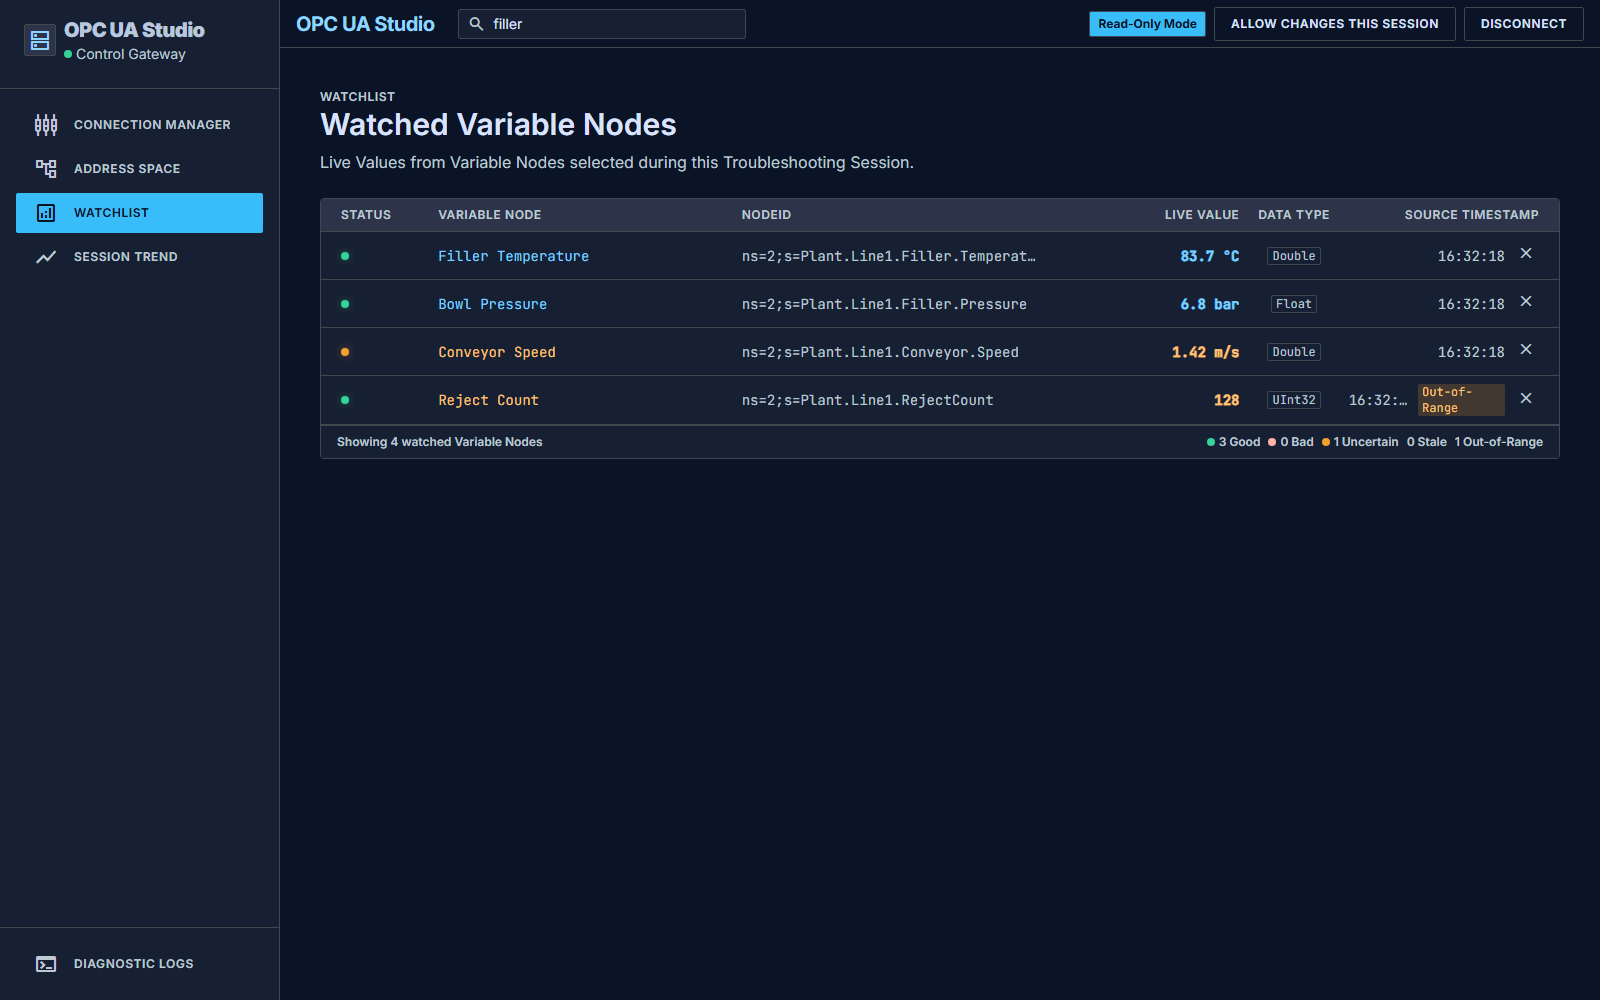
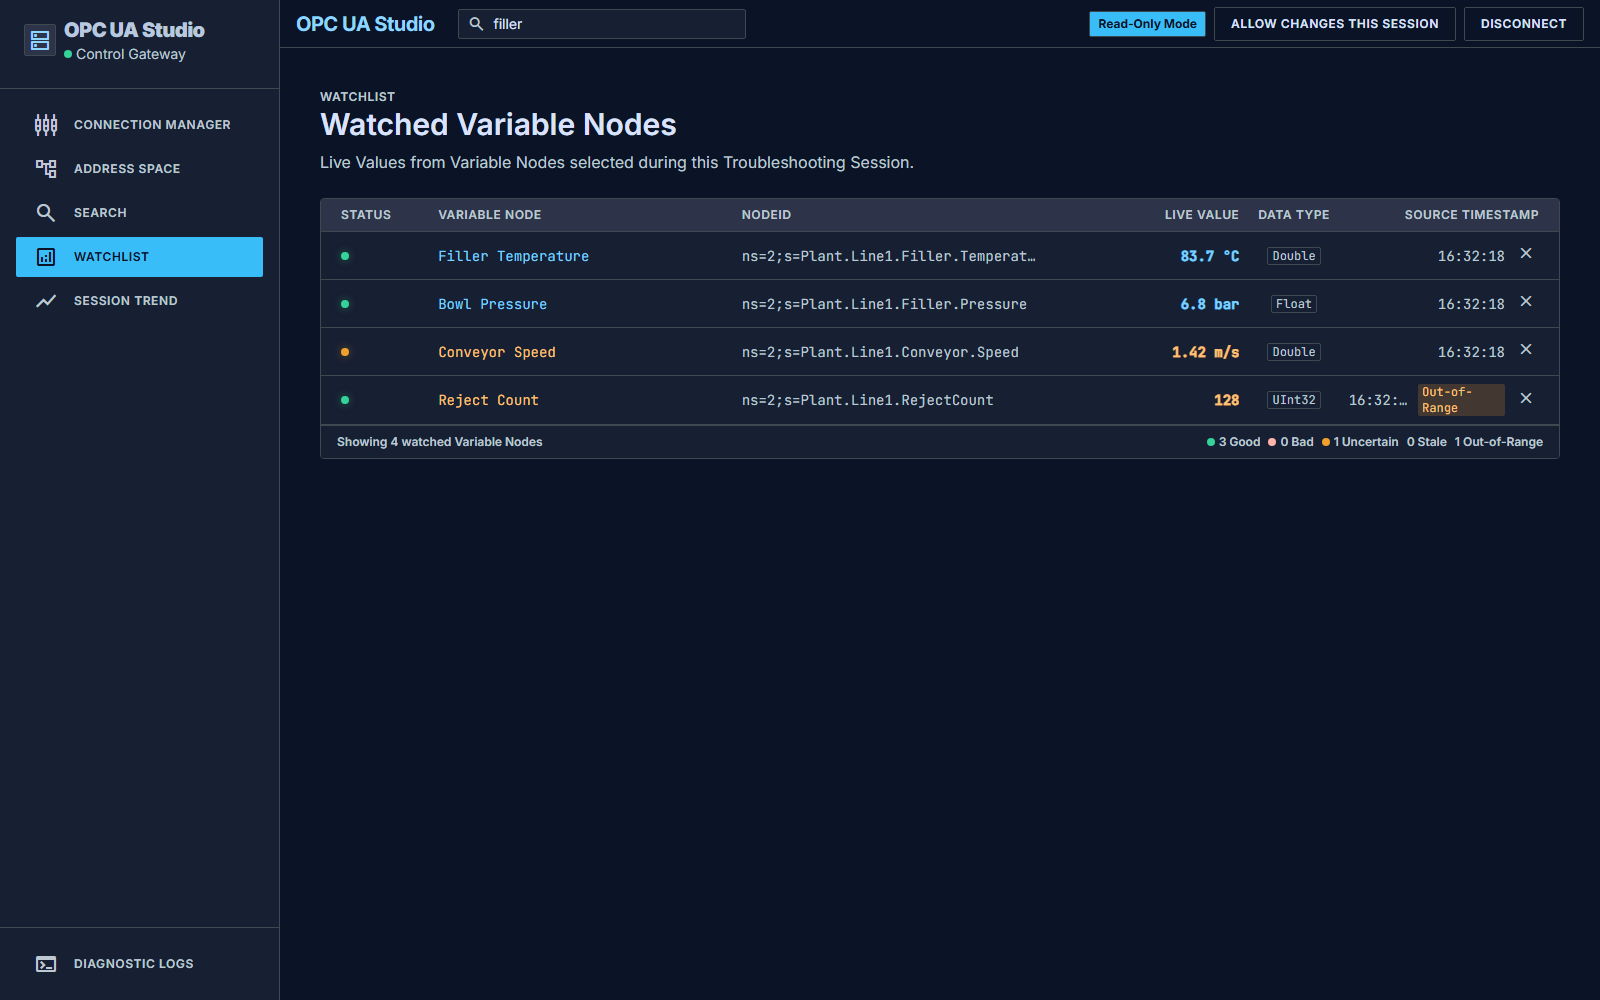
feat(frontend): move search into dedicated screen

Changed region(s): [[0.0, 0.186, 0.1875, 0.31]]

diff --git a/frontend/src/App.svelte b/frontend/src/App.svelte
@@ -1,12 +1,12 @@
 <script lang="ts">
-  import { onMount } from 'svelte'
+  import { onMount, tick } from 'svelte'
   import { BrowseChildren, ClearVariableNodeInspection, Connect, DeleteSavedConnection, Disconnect, DiscoverEndpoints, GetDiagnosticLogs, GetSavedConnections, GetSessionSafety, GetSessionTrend, GetWatchlist, InspectVariableNode, PickClientCertificate, PickClientPrivateKey, RefreshVariableNodeValue, SaveSavedConnection, SearchAddressSpace, SetReadOnlyMode, UnwatchVariableNode, WatchVariableNode, WriteVariableNodeValue } from '../wailsjs/go/main/App.js'
   import { EventsOn } from '../wailsjs/runtime/runtime.js'
   import MethodCallPanel from './MethodCallPanel.svelte'
   import { isSupportedScalarDataType, parseScalarInputError } from './scalarInput'
   import { getReadmeScreenshotState } from './readmeScreenshots'
 
-  type Tab = 'connections' | 'address-space' | 'watchlist' | 'session-trend' | 'logs'
+  type Tab = 'connections' | 'address-space' | 'search' | 'watchlist' | 'session-trend' | 'logs'
   type AuthType = 'Anonymous' | 'UserName'
 
   type Endpoint = {
@@ -193,6 +193,7 @@
   let searchView: AddressSpaceSearchView = (readmeScreenshotState?.searchView as AddressSpaceSearchView) ?? { query: '', results: [], status: 'Connect to an OPC UA Server to search browsed Address Space metadata.' }
   let searching = false
   let searchDebounce: ReturnType<typeof setTimeout> | null = null
+  let searchInput: HTMLInputElement | null = null
   let refreshingNodeID = ''
   let writeTargetValue = ''
   let writeSubmitting = false
@@ -520,7 +521,15 @@
     searchDebounce = null
   }
 
+  async function openSearchFromSidebar() {
+    activeTab = 'search'
+    if (!connected) return
+    await tick()
+    searchInput?.focus()
+  }
+
   function queueAddressSpaceSearch() {
+    activeTab = 'search'
     if (searchDebounce) clearTimeout(searchDebounce)
     searchDebounce = setTimeout(() => {
       void runAddressSpaceSearch()
@@ -862,6 +871,9 @@
       <button class={navButtonClass(activeTab === 'address-space')} on:click={() => (activeTab = 'address-space')}>
         <span class="material-symbols-outlined">account_tree</span><span class="label text-current">Address Space</span>
       </button>
+      <button aria-label="Search" class={navButtonClass(activeTab === 'search')} on:click={openSearchFromSidebar}>
+        <span class="material-symbols-outlined">search</span><span class="label text-current">Search</span>
+      </button>
       <button class={navButtonClass(activeTab === 'watchlist')} on:click={() => (activeTab = 'watchlist')}>
         <span class="material-symbols-outlined">analytics</span><span class="label text-current">Watchlist</span>
       </button>
@@ -883,7 +895,7 @@
         <span class="text-xl font-bold tracking-tight text-primary">OPC UA Studio</span>
         <div class="hidden w-72 items-center rounded border border-outline-variant bg-surface-container px-sm py-xs md:flex">
           <span class="material-symbols-outlined mr-sm text-[18px] text-on-surface-variant">search</span>
-          <input class="w-full bg-transparent text-sm outline-none placeholder:text-on-surface-variant" placeholder="Search Address Space..." bind:value={searchQuery} on:input={queueAddressSpaceSearch} on:focus={() => (activeTab = 'address-space')} />
+          <input aria-label="Search Address Space from header" class="w-full bg-transparent text-sm outline-none placeholder:text-on-surface-variant" placeholder="Search Address Space..." bind:value={searchQuery} disabled={!connected} on:input={queueAddressSpaceSearch} on:focus={() => (activeTab = 'search')} />
         </div>
       </div>
       <div class="flex items-center gap-sm">
@@ -1036,8 +1048,11 @@
             </div>
           {/if}
         </section>
-      {:else if activeTab === 'address-space'}
-        <section class="grid h-full min-h-[600px] gap-lg xl:grid-cols-[minmax(240px,0.8fr)_minmax(280px,0.95fr)_minmax(360px,1.25fr)]">
+      {:else if activeTab === 'address-space' || activeTab === 'search'}
+        <section class={activeTab === 'address-space'
+          ? 'grid h-full min-h-[600px] gap-lg xl:grid-cols-[360px_minmax(0,1fr)]'
+          : 'grid h-full min-h-[600px] gap-lg xl:grid-cols-[minmax(420px,0.9fr)_minmax(480px,1.1fr)]'}>
+          {#if activeTab === 'address-space'}
           <div class="panel flex min-h-0 flex-col overflow-hidden">
             <div class="flex items-center justify-between border-b border-outline-variant p-md">
               <div><p class="label">Address Space</p><h2 class="text-xl font-semibold">Objects</h2></div>
@@ -1066,6 +1081,7 @@
             </div>
           </div>
 
+          {:else}
           <div class="panel flex min-h-0 flex-col overflow-hidden">
             <div class="border-b border-outline-variant p-md">
               <p class="label">Search</p>
@@ -1073,18 +1089,21 @@
               <p class="mt-xs text-sm text-on-surface-variant">Search browsed metadata: DisplayName, BrowseName, NodeID, and NodeClass.</p>
               <div class="relative mt-md">
                 <span class="material-symbols-outlined absolute left-md top-1/2 -translate-y-1/2 text-on-surface-variant">search</span>
-                <input class="field w-full py-md pl-[48px] text-base" placeholder="Search Address Space…" bind:value={searchQuery} on:input={queueAddressSpaceSearch} />
+                <input bind:this={searchInput} aria-label="Search Address Space" class="field w-full py-md pl-[48px] text-base" placeholder="Search Address Space…" bind:value={searchQuery} disabled={!connected} on:input={queueAddressSpaceSearch} />
               </div>
             </div>
             <div class="min-h-0 flex-1 overflow-auto p-md">
-              {#if searching}
-                <div class="mb-md text-sm text-primary">Searching…</div>
-              {/if}
+              <div role="status" aria-live="polite">
+                {#if searching}
+                  <div class="mb-md text-sm text-primary">Searching…</div>
+                {/if}
+                <p class="mb-md text-sm text-on-surface-variant">{searchView.status}</p>
+              </div>
               {#if searchView.results.length === 0}
                 <div class="flex min-h-[260px] items-center justify-center rounded border border-dashed border-outline-variant bg-surface-container-low p-lg text-center text-on-surface-variant">
                   <div>
                     <span class="material-symbols-outlined text-3xl text-primary">manage_search</span>
-                    <p class="mt-sm">{searchView.status}</p>
+                    <p class="mt-sm">No Search Results</p>
                     {#if connected}<p class="mt-xs text-xs">Browse the tree to add more Address Space metadata to Search.</p>{/if}
                   </div>
                 </div>
@@ -1121,6 +1140,7 @@
               {/if}
             </div>
           </div>
+          {/if}
 
           <div class="panel flex min-h-0 flex-col overflow-hidden">
             <div class="flex items-center justify-between gap-md border-b border-outline-variant p-md">
@@ -1193,15 +1213,15 @@
                 {#if inspection.outOfRange}<div class="mt-md rounded border border-tertiary-container bg-tertiary-container/10 p-md text-tertiary">Out-of-Range: {inspection.outOfRange}</div>{/if}
                 {#if inspection.error}<div class="mt-md rounded border border-error-container bg-error-container/20 p-md text-error">{inspection.error}</div>{/if}
                 <div class="mt-lg grid gap-md lg:grid-cols-2">
-                  <div class="space-y-sm">
+                  <div class="min-w-0 space-y-sm">
                     <p class="label">Metadata</p>
                     <dl class="space-y-xs text-sm">
-                      <div class="flex justify-between gap-md"><dt class="text-on-surface-variant">NodeId</dt><dd class="font-mono">{inspection.node.NodeID}</dd></div>
-                      <div class="flex justify-between gap-md"><dt class="text-on-surface-variant">BrowseName</dt><dd class="font-mono">{inspection.node.BrowseName}</dd></div>
-                      <div class="flex justify-between gap-md"><dt class="text-on-surface-variant">Data Type</dt><dd>{inspection.details?.DataType || '—'}</dd></div>
-                      <div class="flex justify-between gap-md"><dt class="text-on-surface-variant">AccessLevel</dt><dd>{inspection.details?.AccessLevel || '—'}</dd></div>
-                      <div class="flex justify-between gap-md"><dt class="text-on-surface-variant">UserAccessLevel</dt><dd>{inspection.details?.UserAccessLevelAvailable ? inspection.details.UserAccessLevel : '—'}</dd></div>
-                      <div class="flex justify-between gap-md"><dt class="text-on-surface-variant">Engineering Unit</dt><dd>{inspection.details?.EngineeringUnit || '—'}</dd></div>
+                      <div class="flex items-start justify-between gap-md"><dt class="shrink-0 text-on-surface-variant">NodeId</dt><dd class="min-w-0 break-all text-right font-mono">{inspection.node.NodeID}</dd></div>
+                      <div class="flex items-start justify-between gap-md"><dt class="shrink-0 text-on-surface-variant">BrowseName</dt><dd class="min-w-0 break-all text-right font-mono">{inspection.node.BrowseName}</dd></div>
+                      <div class="flex items-start justify-between gap-md"><dt class="shrink-0 text-on-surface-variant">Data Type</dt><dd class="min-w-0 break-words text-right">{inspection.details?.DataType || '—'}</dd></div>
+                      <div class="flex items-start justify-between gap-md"><dt class="shrink-0 text-on-surface-variant">AccessLevel</dt><dd class="min-w-0 break-words text-right">{inspection.details?.AccessLevel || '—'}</dd></div>
+                      <div class="flex items-start justify-between gap-md"><dt class="shrink-0 text-on-surface-variant">UserAccessLevel</dt><dd class="min-w-0 break-words text-right">{inspection.details?.UserAccessLevelAvailable ? inspection.details.UserAccessLevel : '—'}</dd></div>
+                      <div class="flex items-start justify-between gap-md"><dt class="shrink-0 text-on-surface-variant">Engineering Unit</dt><dd class="min-w-0 break-words text-right">{inspection.details?.EngineeringUnit || '—'}</dd></div>
                     </dl>
                   </div>
                   <div class="space-y-sm">
@@ -1213,8 +1233,10 @@
                     </dl>
                   </div>
                 </div>
+              {:else if selectedNodeID}
+                <div class="flex h-full items-center justify-center p-lg text-center text-on-surface-variant">Object Nodes do not provide Variable Node Inspection or Method Call details.</div>
               {:else}
-                <div class="flex h-full items-center justify-center text-center text-on-surface-variant">Select a Variable Node or Method Node from the Address Space to inspect it.</div>
+                <div class="flex h-full items-center justify-center p-lg text-center text-on-surface-variant">Select a Variable Node or Method Node to inspect it.</div>
               {/if}
             </div>
           </div>

diff --git a/frontend/src/readmeScreenshots.ts b/frontend/src/readmeScreenshots.ts
@@ -1,4 +1,4 @@
-type Tab = 'connections' | 'address-space' | 'watchlist' | 'session-trend' | 'logs'
+type Tab = 'connections' | 'address-space' | 'search' | 'watchlist' | 'session-trend' | 'logs'
 
 type AddressNode = {
   ParentNodeID?: string
@@ -142,6 +142,14 @@ const methodSearchResults = [{
   score: 100
 }]
 
+const objectSearchResults = [{
+  node: nodes.filler,
+  matchKind: 'DisplayName',
+  matchText: 'Filler Station',
+  source: 'Browsed Address Space metadata',
+  score: 100
+}]
+
 const sessionTrend = {
   nodes: [
     { node: nodes.temp, latestValue: '83.7 °C', status: 'Good', pointCount: 12 },
@@ -187,7 +195,9 @@ export function getReadmeScreenshotState(): ReadmeScreenshotState | null {
 
   const tabByRequest: Record<string, Tab> = {
     hero: 'address-space',
-    search: 'address-space',
+    search: 'search',
+    'search-object': 'search',
+    'search-disconnected': 'search',
     inspection: 'address-space',
     watchlist: 'watchlist',
     trend: 'session-trend',
@@ -201,25 +211,32 @@ export function getReadmeScreenshotState(): ReadmeScreenshotState | null {
       { id: 'control-gateway', name: 'Control Gateway', endpoint: 'opc.tcp://192.168.10.42:4840', securityPolicy: 'Basic256Sha256', securityMode: 'SignAndEncrypt', authType: 'Anonymous', serverCertificateThumbprint: '8A:91:4F:2C:67:12:EB:44', createdAt: now, updatedAt: now, lastConnectedAt: now }
     ]
 
+  const disconnectedSearch = requested === 'search-disconnected'
+  const objectSearch = requested === 'search-object'
+
   return {
     activeTab: tabByRequest[requested] || 'address-space',
-    connected: true,
+    connected: !disconnectedSearch,
     readOnlyMode: requested === 'method-call-read-only' || (!requested.startsWith('write-') && !requested.startsWith('method-call')) || requested === 'write-read-only',
-    currentConnection: 'Control Gateway',
+    currentConnection: disconnectedSearch ? '' : 'Control Gateway',
     tree,
-    selectedNodeID: requested.startsWith('method-call') ? nodes.methodIO.NodeID : nodes.temp.NodeID,
+    selectedNodeID: disconnectedSearch ? '' : objectSearch ? nodes.filler.NodeID : requested.startsWith('method-call') ? nodes.methodIO.NodeID : nodes.temp.NodeID,
     selectedMethod: requested.startsWith('method-call') ? nodes.methodIO : null,
-    inspection: requested.startsWith('method-call') ? null : inspectionForRequest(requested),
+    inspection: disconnectedSearch || objectSearch || requested.startsWith('method-call') ? null : inspectionForRequest(requested),
     confirmationInspectionUpdate: requested === 'write-confirmation-live-value-change' ? changedInspection : null,
     logs: [],
     receiveRuntimeEvents: requested === 'write-feedback-events' || requested === 'method-call-events',
     watchlist,
     sessionTrend,
     focusedTrendNodeID: nodes.temp.NodeID,
-    searchQuery: requested === 'connections' ? '' : requested.startsWith('method-call') ? 'method' : 'filler',
-    searchView: requested.startsWith('method-call')
-      ? { query: 'method', results: methodSearchResults as typeof searchResults, status: '1 Search Result found in browsed Address Space metadata.' }
-      : { query: 'filler', results: searchResults, status: '3 Search Results found in browsed Address Space metadata.' },
+    searchQuery: disconnectedSearch || requested === 'connections' ? '' : requested.startsWith('method-call') ? 'method' : 'filler',
+    searchView: disconnectedSearch
+      ? { query: '', results: [], status: 'Connect to an OPC UA Server to search browsed Address Space metadata.' }
+      : objectSearch
+        ? { query: 'filler', results: objectSearchResults as typeof searchResults, status: '1 Search Result found in browsed Address Space metadata.' }
+        : requested.startsWith('method-call')
+          ? { query: 'method', results: methodSearchResults as typeof searchResults, status: '1 Search Result found in browsed Address Space metadata.' }
+          : { query: 'filler', results: searchResults, status: '3 Search Results found in browsed Address Space metadata.' },
     savedConnections,
     endpoints: [
       { URL: 'opc.tcp://192.168.10.42:4840', SecurityPolicy: 'Basic256Sha256', SecurityMode: 'SignAndEncrypt', SecurityLevel: 3, UserTokenTypes: ['Anonymous', 'UserName'], ServerThumbprint: '8A:91:4F:2C:67:12:EB:44' },

diff --git a/frontend/tests/ui/search-screen.spec.ts b/frontend/tests/ui/search-screen.spec.ts
@@ -1,0 +1,61 @@
+import { expect, test } from 'playwright/test'
+
+test('Search is a dedicated sidebar screen and preserves shared inspection state', async ({ page }) => {
+  await page.goto('/?screenshot=hero')
+
+  const sidebar = page.locator('aside')
+  const labels = await sidebar.locator('nav button').allTextContents()
+  expect(labels.findIndex(label => label.includes('Search'))).toBe(labels.findIndex(label => label.includes('Address Space')) + 1)
+
+  await sidebar.getByRole('button', { name: 'Search', exact: true }).click()
+
+  await expect(page.getByRole('heading', { name: 'Address Space Search' })).toBeVisible()
+  await expect(page.getByLabel('Search Address Space', { exact: true })).toBeFocused()
+  await expect(page.getByText('3 Search Results found in browsed Address Space metadata.')).toBeVisible()
+  await expect(page.getByRole('heading', { name: 'Filler Temperature', level: 2 })).toBeVisible()
+  await expect(page.getByRole('heading', { name: 'Objects', level: 2 })).toHaveCount(0)
+
+  await sidebar.getByRole('button', { name: /Address Space$/ }).click()
+  await expect(page.getByRole('heading', { name: 'Objects', level: 2 })).toBeVisible()
+  await expect(page.getByRole('heading', { name: 'Filler Temperature', level: 2 })).toBeVisible()
+  await expect(page.getByRole('heading', { name: 'Address Space Search' })).toHaveCount(0)
+})
+
+test('the header Search field opens Search and shares its query', async ({ page }) => {
+  await page.addInitScript(() => {
+    const testWindow = window as typeof window & { go: unknown }
+    testWindow.go = { main: { App: {
+      SearchAddressSpace: (query: string) => Promise.resolve({ query, results: [], status: `Search complete for ${query}` })
+    } } }
+  })
+  await page.goto('/?screenshot=hero')
+
+  const headerSearch = page.getByLabel('Search Address Space from header')
+  await headerSearch.focus()
+
+  await expect(page.getByRole('heading', { name: 'Address Space Search' })).toBeVisible()
+  await expect(headerSearch).toBeFocused()
+  await expect(page.getByLabel('Search Address Space', { exact: true })).toHaveValue('filler')
+
+  await headerSearch.fill('pressure')
+  await expect(page.getByLabel('Search Address Space', { exact: true })).toHaveValue('pressure')
+  await expect(page.getByRole('status')).toContainText('Search complete for pressure')
+})
+
+test('Search remains navigable but its inputs are disabled while disconnected', async ({ page }) => {
+  await page.goto('/?screenshot=search-disconnected')
+
+  await expect(page.getByRole('heading', { name: 'Address Space Search' })).toBeVisible()
+  await expect(page.getByLabel('Search Address Space from header')).toBeDisabled()
+  await expect(page.getByLabel('Search Address Space', { exact: true })).toBeDisabled()
+  await expect(page.getByText('Connect to an OPC UA Server to search browsed Address Space metadata.')).toBeVisible()
+  await expect(page.locator('aside').getByRole('button', { name: 'Search', exact: true })).toBeEnabled()
+})
+
+test('an Object Search Result explains that no inspection panel is available', async ({ page }) => {
+  await page.goto('/?screenshot=search-object')
+
+  await expect(page.getByRole('heading', { name: 'Address Space Search' })).toBeVisible()
+  await expect(page.getByText('Filler Station', { exact: true }).first()).toBeVisible()
+  await expect(page.getByText('Object Nodes do not provide Variable Node Inspection or Method Call details.')).toBeVisible()
+})

diff --git a/frontend/tests/ui/method-call.spec.ts b/frontend/tests/ui/method-call.spec.ts
@@ -50,7 +50,10 @@ async function stubMethodAPI(page: Page, options: { details?: unknown; detailsEr
 async function openMethod(page: Page, source: 'tree' | 'search' = 'tree', state = 'method-call') {
   await page.goto(`/?screenshot=${state}`)
   if (source === 'tree') await page.getByRole('button', { name: 'MethodIO Method', exact: true }).click()
-  else await page.getByRole('button', { name: /^play_circle MethodIO/ }).click()
+  else {
+    await page.getByRole('button', { name: 'Search', exact: true }).click()
+    await page.getByRole('button', { name: /^play_circle MethodIO/ }).click()
+  }
   await expect(page.getByRole('heading', { name: 'MethodIO', level: 2 })).toBeVisible()
 }
 
